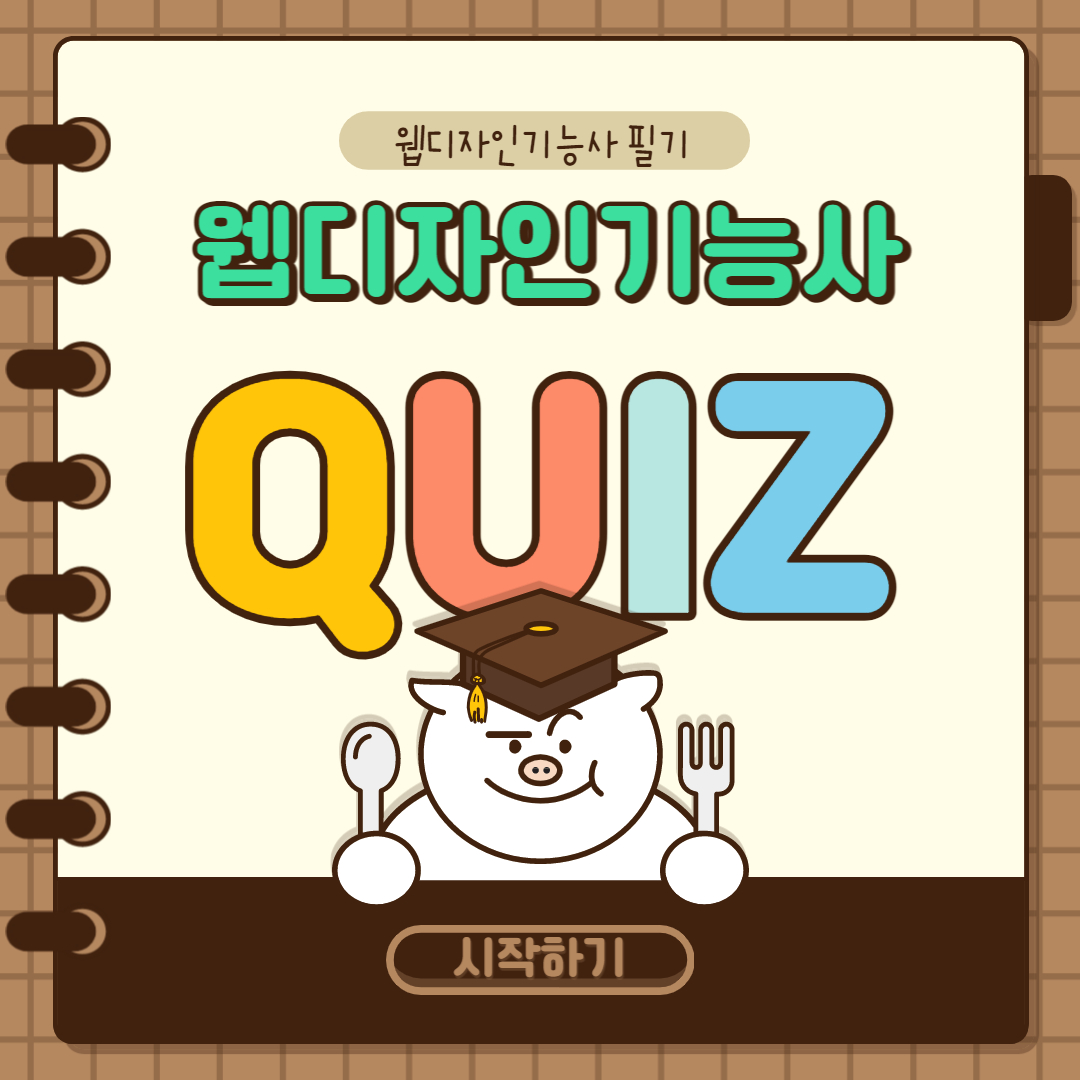
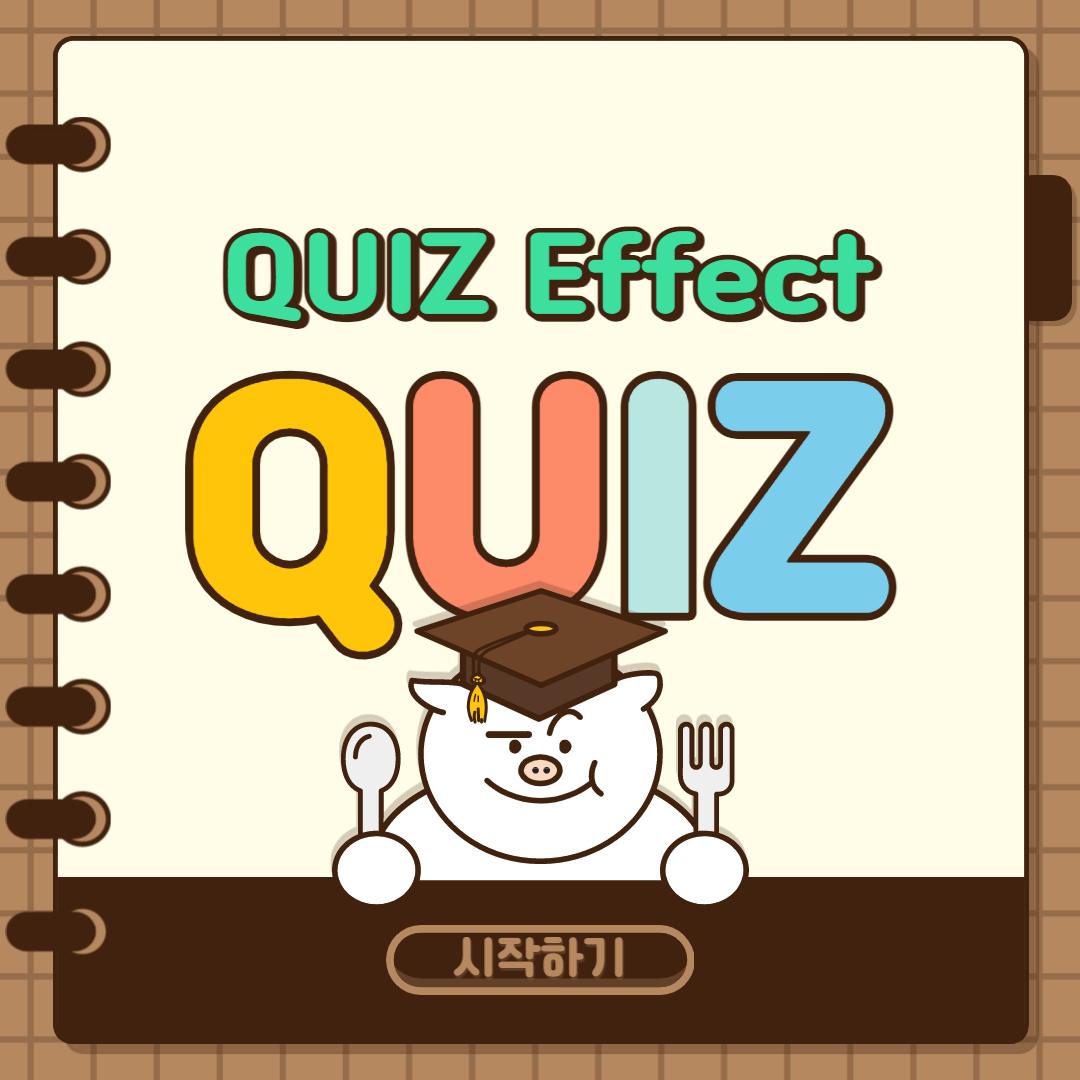
22.08.04

Changed region(s): [[0.1528, 0.0917, 0.8556, 0.3056]]

diff --git a/javascript/study/quiz02.html b/javascript/study/quiz02.html
@@ -45,7 +45,7 @@
         <div class="document">
             <h2 class="t_tit">퀴즈 효과02</h2>
             <p class="t_desc2">
-                자바스크립트를 이용한 웹디자인기능사 필기 기출문제입니다. 이번 퀴즈는 주관식 형태로, 정답을 입력 후 확인을 누르면 정답인지 오답인지 확인할 수 있습니다.
+                자바스크립트를 이용한 퀴즈입니다. 이번 퀴즈는 주관식 형태로, 정답을 입력 후 확인을 누르면 정답인지 오답인지 확인할 수 있습니다.
             </p>
             <div class="t_iframe" style="min-height: 1000px; padding-top: 0;">
                 <iframe src="https://kim-chanmi.github.io/coding/javascript/effect/quizEffect02.html" frameborder="0"></iframe>
@@ -60,13 +60,13 @@
             </p>
             <div class="t_code">
 <pre><code class="language-js">//선택자
-const quizType = document.querySelector(".quiz__type");                                 //퀴즈 종류
-const quizNumber = document.querySelector(".quiz__question .number");         //퀴즈 번호
-const quizAsk = document.querySelector(".quiz__question .ask");                       //퀴즈 질문
-const quizConfirm = document.querySelector(".quiz__answer .confirm");            //정답 확인 버튼
-const quizResult = document.querySelector(".quiz__answer .result");                  //정답 결과
-const quizInput = document.querySelector(".quiz__answer .input");                   //사용자 정답
-const quizView = document.querySelector(".quiz__view");                                 //강아지
+const quizType = document.querySelector(".quiz__type");                     //퀴즈 종류
+const quizNumber = document.querySelector(".quiz__question .number");       //퀴즈 번호
+const quizAsk = document.querySelector(".quiz__question .ask");             //퀴즈 질문
+const quizConfirm = document.querySelector(".quiz__answer .confirm");       //정답 확인 버튼
+const quizResult = document.querySelector(".quiz__answer .result");         //정답 결과
+const quizInput = document.querySelector(".quiz__answer .input");            //사용자 정답
+const quizView = document.querySelector(".quiz__view");                      //강아지
 
 
 //문제 정보
@@ -75,7 +75,7 @@ const answerNum = "2";
 const answerAsk = "기업의 새로운 이념 구축에 필요한 이미지와 커뮤니케이션 시스템을 의도적, 계획적으로 만들어내는 기업이미지통합 전략은 무엇인가요?";
 let answerResult = "CIP";   //const는 데이터변경이 불가하기 때문에 let으로 선언
 
-//문제 출력(textContent 사용)
+//문제 출력
 quizType.textContent = answerType;
 quizNumber.textContent = answerNum + ". ";
 quizAsk.textContent = answerAsk;
@@ -85,14 +85,14 @@ quizResult.textContent = "정답은 " +  answerResult + " 입니다.";
 quizResult.style.display = "none";
 
 //정답 확인
-quizConfirm.addEventListener("click", () => {           //화살표함수 사용. 정답 버튼을 클릭했을 때
+quizConfirm.addEventListener("click", () => { //화살표함수 사용. 정답 버튼을 클릭했을 때
     quizInput.style.display = "none";
     quizResult.style.display = "block";
     quizConfirm.style.display = "none";
     
     //사용자 정답
     const userWord = quizInput.value.toLowerCase().trim(); //소문자로 변환toLowerCase(), 여백없애주는거trim()
-    answerResult = answerResult.toLowerCase().trim(); //'=' :우변을 좌변으로 대입   //위에서 let으로 선언했기 때문에 데이터변경 가능
+    answerResult = answerResult.toLowerCase().trim(); //우변을 좌변으로 대입    //위에서 let으로 선언했기 때문에 데이터변경 가능
 
     console.log(userWord)
     console.log(answerResult)
@@ -102,13 +102,13 @@ quizConfirm.addEventListener("click", () => {           //화살표함수 사용
     //사용자 정답 == 문제 정답(비교)
     if(userWord == answerResult){
         //정답
+        quizView.classList.add("like");
         //alert("정답입니다.")
-        quizView.classList.add("like");  
         quizInput.classList.add("like")
     } else {
         //오답
+        quizView.classList.add("dislike");
         //alert("오답입니다.")
-        quizView.classList.add("dislike");     
     }
 }); 
 </code></pre>

diff --git a/javascript/study/quiz01.html b/javascript/study/quiz01.html
@@ -45,8 +45,7 @@
         <div class="document">
             <h2 class="t_tit">퀴즈 효과01</h2>
             <p class="t_desc2">
-                자바스크립트를 이용하여 퀴즈를 만들 수 있습니다. 웹디자인기능사 필기문제를 이용하여 문제를 만들어 봅시다.
-                이번 퀴즈는 정답확인하기를 클릭하면 정답을 확인할 수 있습니다.
+                자바스크립트를 이용하여 퀴즈를 만들 수 있습니다. 이번 퀴즈는 정답확인하기를 클릭하면 정답을 확인할 수 있습니다.
             </p>
 
             <hr>
@@ -66,12 +65,12 @@
             </p>
             <div class="t_code">
 <pre><code class="language-js">//선택자
-const quizType = document.querySelector(".quiz__type");                                 //퀴즈 종류
-const quizNumber = document.querySelector(".quiz__question .number");        //퀴즈 번호
-const quizAsk = document.querySelector(".quiz__question .ask");                     //퀴즈 질문
-const quizConfirm = document.querySelector(".quiz__answer .confirm");          //정답 확인 버튼
-const quizResult = document.querySelector(".quiz__answer .result");                //정답 결과
-const quizDog = document.querySelector(".quiz__view .dog");                        //강아지
+const quizType = document.querySelector(".quiz__type");                     //퀴즈 종류
+const quizNumber = document.querySelector(".quiz__question .number");       //퀴즈 번호
+const quizAsk = document.querySelector(".quiz__question .ask");             //퀴즈 질문
+const quizConfirm = document.querySelector(".quiz__answer .confirm");       //정답 확인 버튼
+const quizResult = document.querySelector(".quiz__answer .result");         //정답 결과
+const quizDog = document.querySelector(".quiz__view .dog");                 //강아지
 
 //문제 정보
 const answerType = "웹디자인기능사";
@@ -79,8 +78,8 @@ const answerNum = 1;
 const answerAsk = "인접하는 두 색의 경계 부분에 색상, 명도, 채도의 대비가 더욱 강하게 일어나는현상을 무엇이라고 하는가?";
 const answerResult = "연변대비";
 
-//출력(innerText 사용)
-quizType.innerText = answerType;    
+//출력
+quizType.innerText = answerType;
 quizNumber.innerText = answerNum + ". ";
 quizAsk.innerText = answerAsk;
 quizResult.innerText = answerResult;

diff --git a/javascript/effect/quizEffect02.html b/javascript/effect/quizEffect02.html
@@ -87,7 +87,7 @@
         const answerType = "웹디자인기능사";
         const answerNum = "2";
         const answerAsk = "기업의 새로운 이념 구축에 필요한 이미지와 커뮤니케이션 시스템을 의도적, 계획적으로 만들어내는 기업이미지통합 전략은 무엇인가요?";
-        let answerResult = "CIP";
+        let answerResult = "CIP";   //const는 데이터변경이 불가하기 때문에 let으로 선언
 
         //문제 출력
         quizType.textContent = answerType;
@@ -99,14 +99,14 @@
         quizResult.style.display = "none";
 
         //정답 확인
-        quizConfirm.addEventListener("click", () => { //정답 버튼을 클릭했을 때
+        quizConfirm.addEventListener("click", () => { //화살표함수 사용. 정답 버튼을 클릭했을 때
             quizInput.style.display = "none";
             quizResult.style.display = "block";
             quizConfirm.style.display = "none";
             
             //사용자 정답
-            const userWord = quizInput.value.toLowerCase().trim(); //소문자, 여백없애주는거
-            answerResult = answerResult.toLowerCase().trim(); //우변을 좌변으로 대입
+            const userWord = quizInput.value.toLowerCase().trim(); //소문자로 변환toLowerCase(), 여백없애주는거trim()
+            answerResult = answerResult.toLowerCase().trim(); //우변을 좌변으로 대입    //위에서 let으로 선언했기 때문에 데이터변경 가능
 
             console.log(userWord)
             console.log(answerResult)

diff --git a/javascript/effect/quizEffect01.html b/javascript/effect/quizEffect01.html
@@ -98,7 +98,7 @@
         //정답 확인
         //정답 버튼을 클릭하면 확인버튼 안 보이게, 숨겨진 정답은 보이게
         //정답을 확인하면 강아지가 웃고 있어야함 // 클래스 like 추가함
-        quizConfirm.addEventListener("click", function(){
+        quizConfirm.addEventListener("click", function(){   //정답 버튼을 클릭했을 때
             quizConfirm.style.display = "none";
             quizResult.style.display = "block";
             quizDog.classList.add("like");
